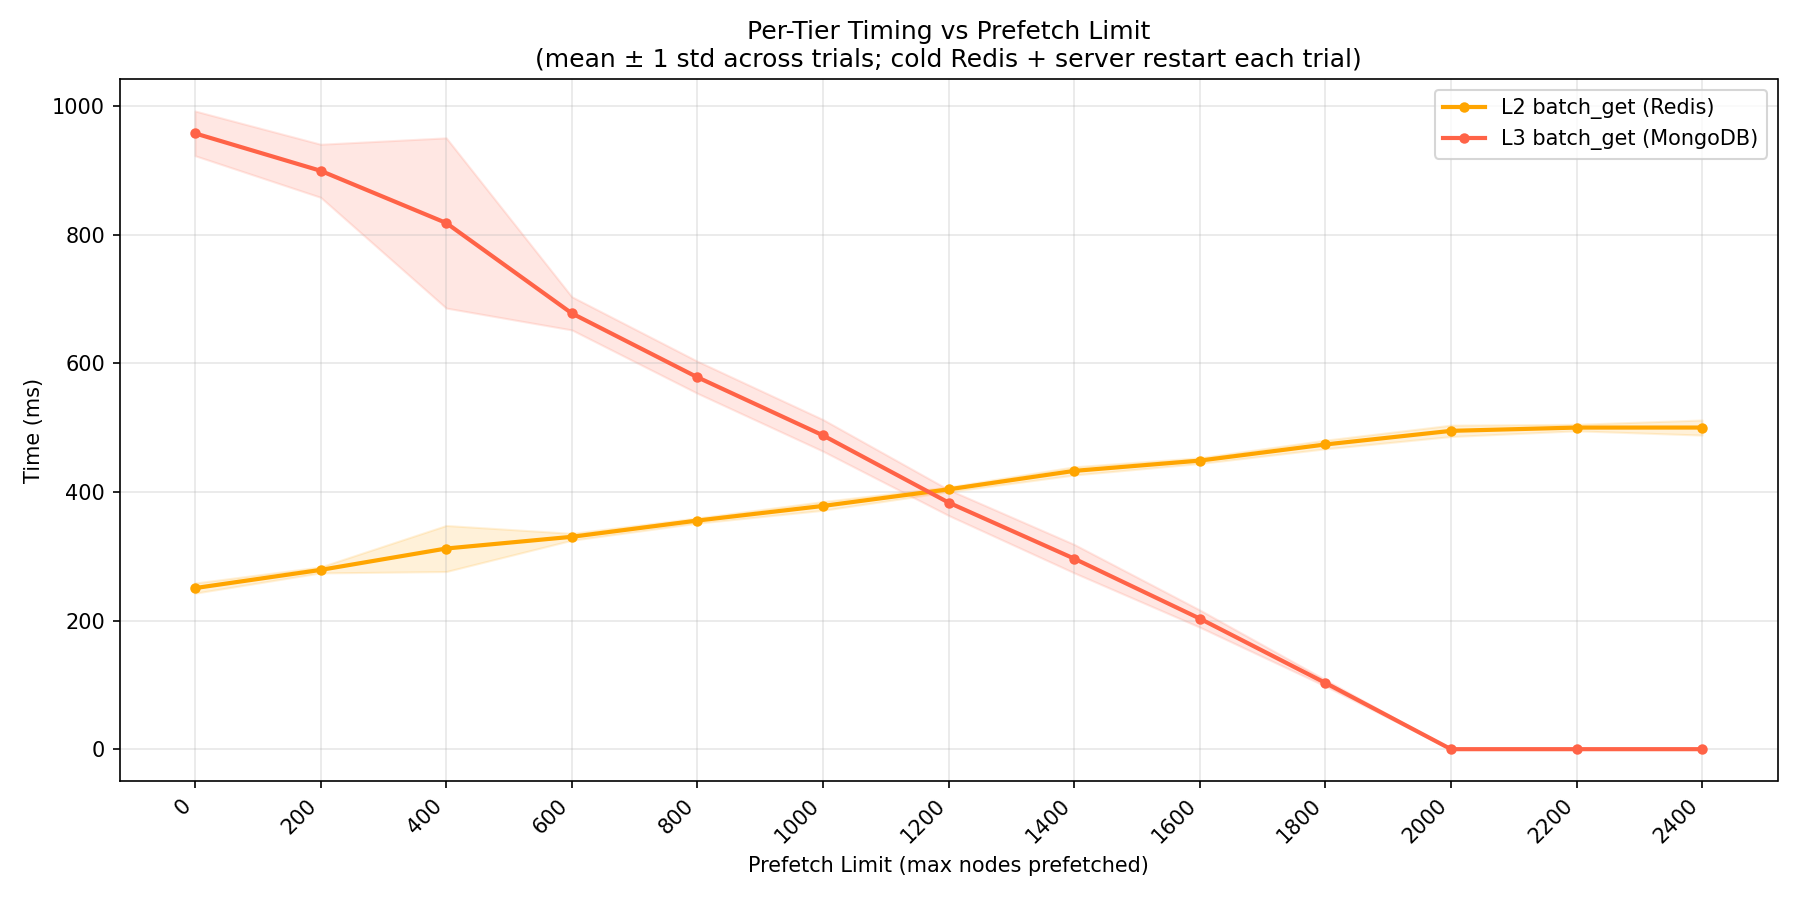
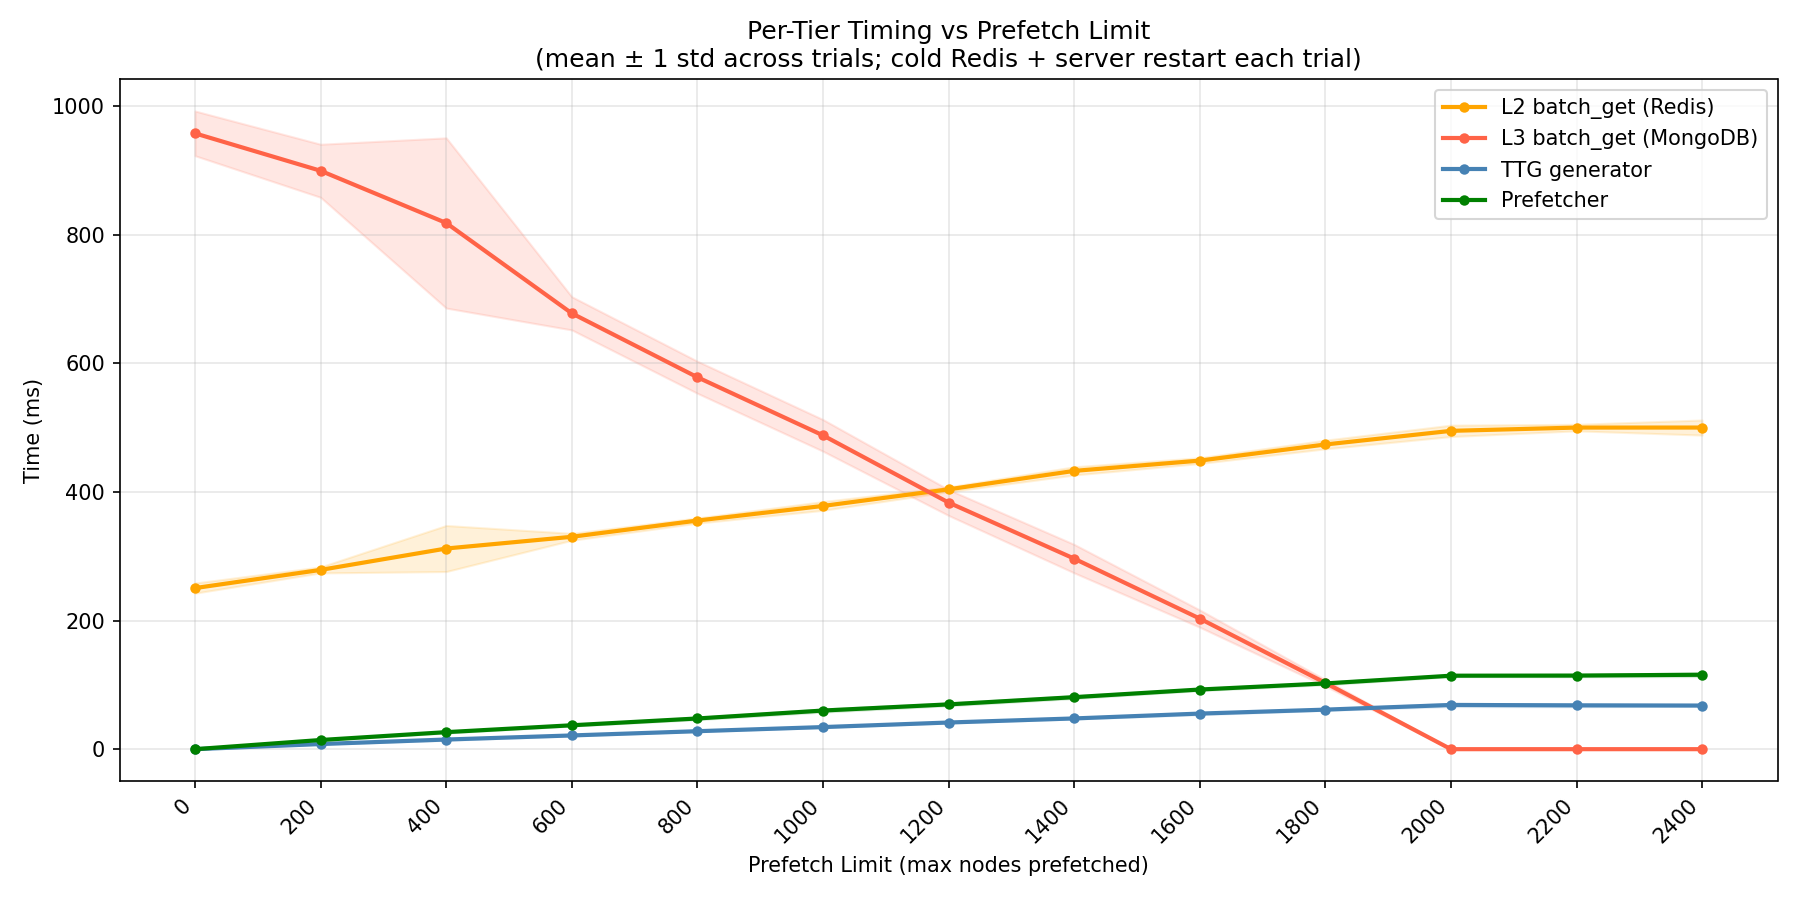
new lines

Changed region(s): [[0.0933, 0.7467, 0.9644, 0.84], [0.8089, 0.1556, 0.9333, 0.2489]]

diff --git a/linked_list/plot_prof_lines.py b/linked_list/plot_prof_lines.py
@@ -22,6 +22,8 @@ import matplotlib.pyplot as plt
 TRACKED = {
     "L2 batch_get (Redis)":   "RedisBackend.batch_get",
     "L3 batch_get (MongoDB)": "MongoBackend.batch_get",
+    "TTG generator":          "get_ttg_prefetch_list",
+    "Prefetcher":             "ScaleTieredMemory.prefetch",
 }
 
 
@@ -64,6 +66,8 @@ def main():
     colors = {
         "L2 batch_get (Redis)":   "orange",
         "L3 batch_get (MongoDB)": "tomato",
+        "TTG generator":          "steelblue",
+        "Prefetcher":             "green",
     }
 
     x = np.array(limits)
